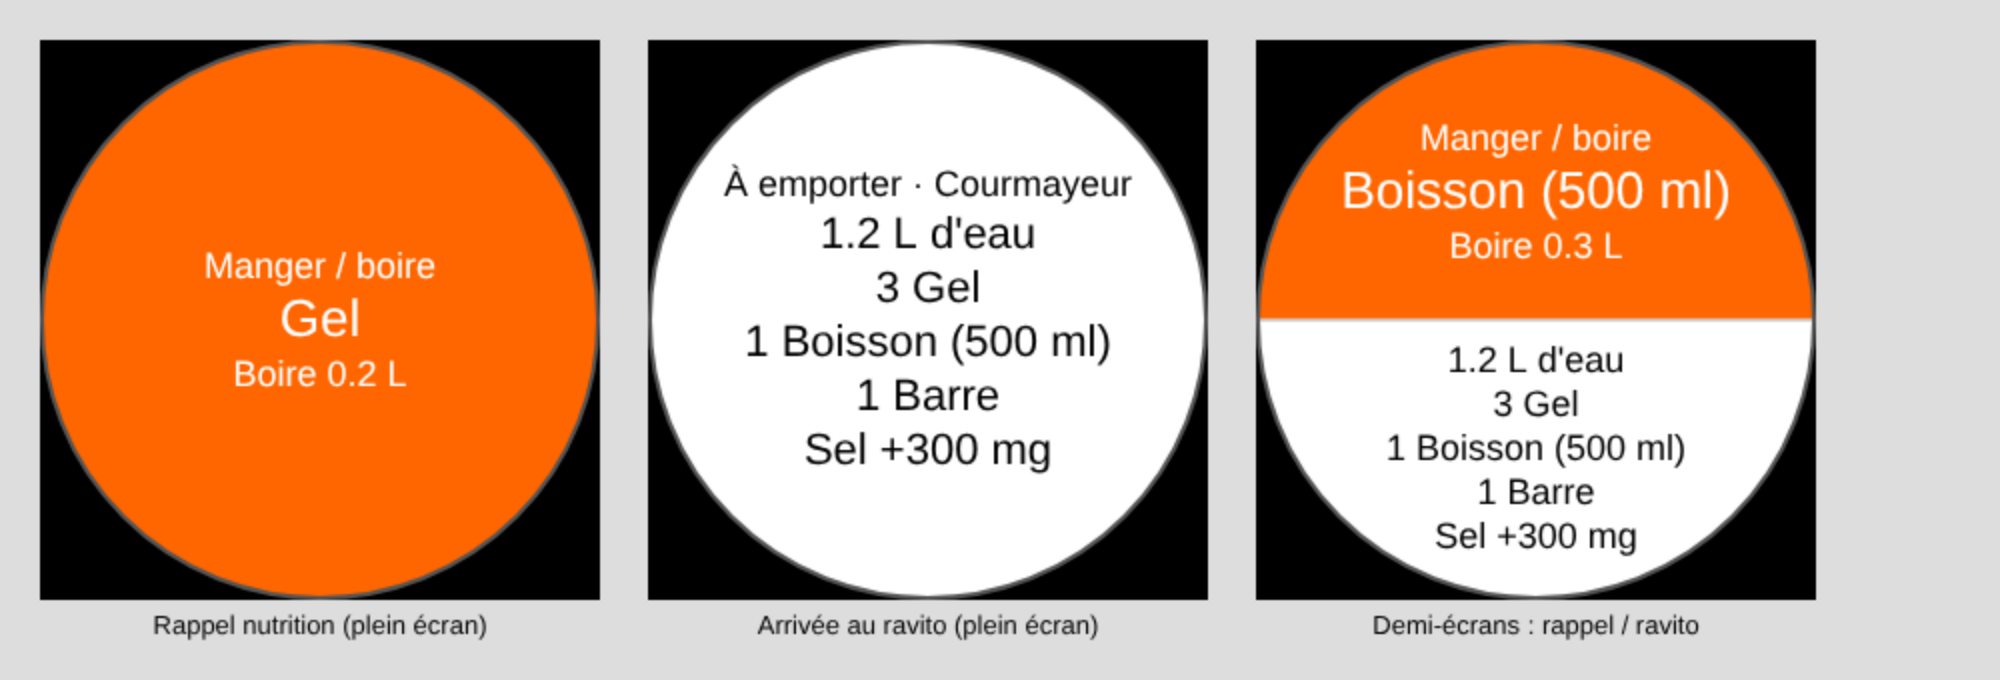
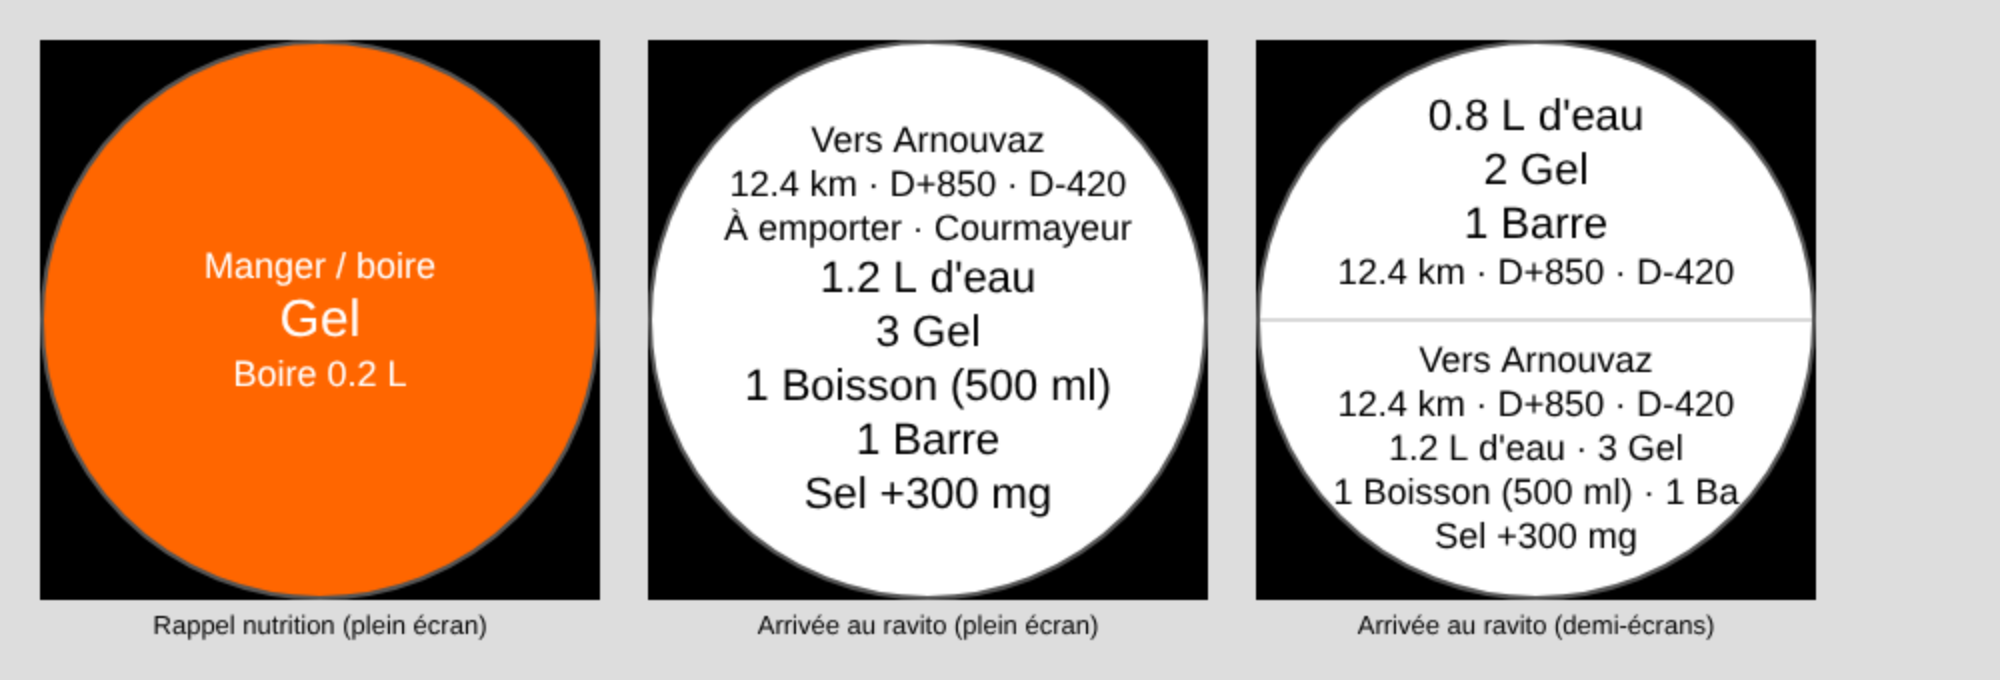
Montre, arrivée au ravito : distance, D+ et D- jusqu'au ravito suivant
L'écran du ravito affiche, en plus du sac « À emporter » (eau, produits, sel),
le tronçon suivant : « Vers <ravito suivant> » et « 12.4 km · D+850 · D-420 »
jusqu'au ravito suivant ou à l'arrivée, depuis le ravito (mêmes valeurs que le
tableau du plan). Les chiffres sont placés loin du bord arrondi ; si la place
manque, le titre puis le nom du ravito suivant sont retirés.

Claude-Session: https://claude.ai/code/session_01NSBNchBWugwNeV2LN2Yo7P

Changed region(s): [[0.62, 0.0618, 0.93, 0.7412], [0.341, 0.1853, 0.589, 0.7721], [0.682, 0.8956, 0.868, 0.9574]]

diff --git a/src/lib/garminApps.ts b/src/lib/garminApps.ts
@@ -24,7 +24,7 @@ export const WATCH_APPS: WatchApp[] = [
     name: 'Trail Planner',
     kind: 'Champ de données',
     what:
-      'Écart au plan à l’endroit où tu es, prochain point (distance, D+ et D- restants, heure prévue et estimée), jusqu’à l’arrivée en option, barrières horaires, rappels nutrition (produit prévu), sac « À emporter » à chaque ravito ; bouton Lap = passage ; passages et position envoyés à ton assistance.',
+      'Écart au plan à l’endroit où tu es, prochain point (distance, D+ et D- restants, heure prévue et estimée), jusqu’à l’arrivée en option, barrières horaires, rappels nutrition (produit prévu), à chaque ravito sac « À emporter » et distance, D+ et D- jusqu’au suivant ; bouton Lap = passage ; passages et position envoyés à ton assistance.',
     storeUrl: null,
     guideUrl: `${REPO_URL}/blob/main/garmin/README.md`,
   },

diff --git a/garmin/README.md b/garmin/README.md
@@ -13,8 +13,8 @@ ClimbPro et PacePro continuent de fonctionner) :
 - **marge sur la prochaine barrière horaire**, avec vibration si elle passe sous 30 min ;
 - **rappels nutrition** : le **produit prévu** (« Gel », « Barre »…) et l'eau à boire (vibration + écran
   30 s) ; les produits du plan nutrition sont répartis équitablement sur chaque tronçon entre deux ravitos ;
-- **à l'arrivée à un ravito** : écran « À emporter » (eau, produits, sel jusqu'au ravito suivant), comme la
-  colonne « À emporter » du plan nutrition ;
+- **à l'arrivée à un ravito** : distance, D+ et D- jusqu'au ravito suivant, et écran « À emporter » (eau,
+  produits, sel jusqu'au ravito suivant), comme la colonne « À emporter » du plan nutrition ;
 - avant le départ : nom, distance, D+ et temps prévu ; heure de départ pour une **course** seulement
   (« Départ libre » si elle est en départ libre), aucune heure pour un **parcours d'entraînement** ;
 - **suivi pour l'assistance** : passages réels, position et batterie envoyés toutes les 5 min via ton
@@ -46,9 +46,11 @@ tronçon / nombre de produits). Réglage « Rappel nutrition » dans Garmin Conn
 rappels, N = « Manger / boire » toutes les N minutes, 0 = aucun rappel. Sans produits dans le profil
 athlète, rappel « Manger / boire » au rythme des glucides du plan.
 
-**Arrivée à un ravito.** Dès le passage (position ou bouton Lap), l'écran « À emporter · nom du ravito »
-liste l'eau, les produits et le sel à prendre pour le tronçon suivant. Il reste affiché pendant l'arrêt
-prévu (1 à 10 min) et disparaît 300 m après le ravito.
+**Arrivée à un ravito.** Dès le passage (position ou bouton Lap), l'écran du ravito affiche le tronçon
+suivant (« Vers Arnouvaz », « 12.4 km · D+850 · D-420 » jusqu'au ravito suivant ou à l'arrivée, comme le
+tableau du plan), puis « À emporter · nom du ravito » : l'eau, les produits et le sel à prendre pour ce
+tronçon. Il reste affiché pendant l'arrêt prévu (1 à 10 min) et disparaît 300 m après le ravito. Si la
+place manque (demi-écran), le titre puis le nom du ravito suivant sont retirés ; les chiffres restent.
 
 ![Aperçu approximatif des écrans nutrition](apercu-nutrition.png)
 

diff --git a/README.md b/README.md
@@ -164,7 +164,7 @@ Webapp de préparation de plans de course trail : temps de passage calculés à 
 - Champ de données Connect IQ (`garmin/`) : écart au plan, prochain point (distance, D+ et D- restants,
   heures prévue et estimée ; jusqu'à l'arrivée en plus par un réglage de la montre), barrières horaires,
   rappels nutrition (produit prévu, produits du plan répartis équitablement entre deux ravitos), écran
-  « À emporter » à l'arrivée à un ravito ; avant le départ, nom, distance, D+ et temps prévu (heure de départ pour une course
+  « À emporter » à l'arrivée à un ravito, avec distance, D+ et D- jusqu'au ravito suivant ; avant le départ, nom, distance, D+ et temps prévu (heure de départ pour une course
   seulement) ; la course choisie (« Mettre sur la montre ») se télécharge avec un code unique ;
   passages et position renvoyés au lien assistance toutes les 5 min (via le téléphone). Position le long du
   parcours par le **GPS calé sur le tracé** envoyé avec le plan (pas d'erreur cumulée de distance, raccourci

diff --git a/public/montre/applications.md b/public/montre/applications.md
@@ -28,7 +28,7 @@ Ton plan de course au poignet :
 
 - **écart au plan** à l’endroit où tu es (position GPS calée sur le tracé) ;
 - **prochain point** : distance, D+ et D- restants, heure prévue et heure estimée ; en option, jusqu'à l'arrivée ;
-- **barrières horaires**, **rappels nutrition** (produit prévu) et sac **« À emporter »** à chaque ravito ;
+- **barrières horaires**, **rappels nutrition** (produit prévu) et, à chaque ravito, sac **« À emporter »** avec distance, D+ et D- jusqu'au suivant ;
 - **bouton Lap** = passage à un point, estimations recalculées ;
 - passages et position envoyés à ton **assistance**.
 
